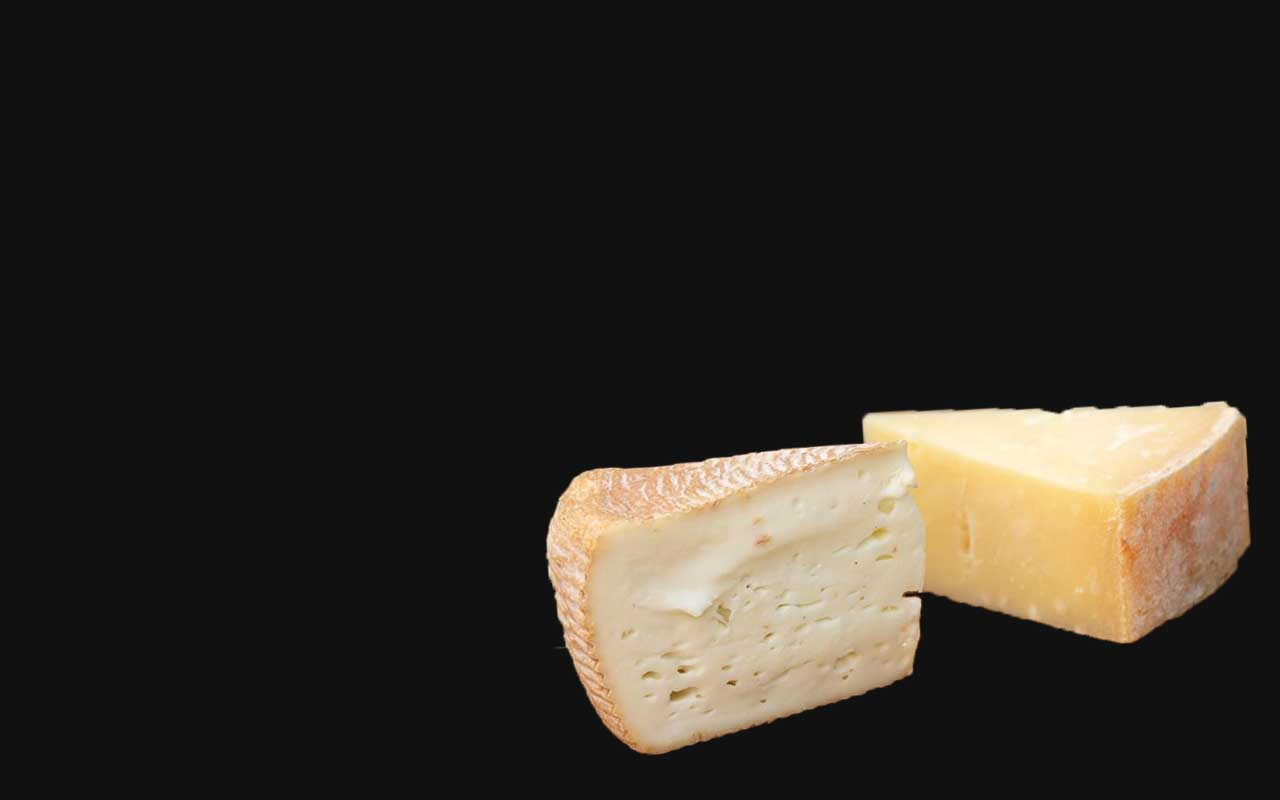
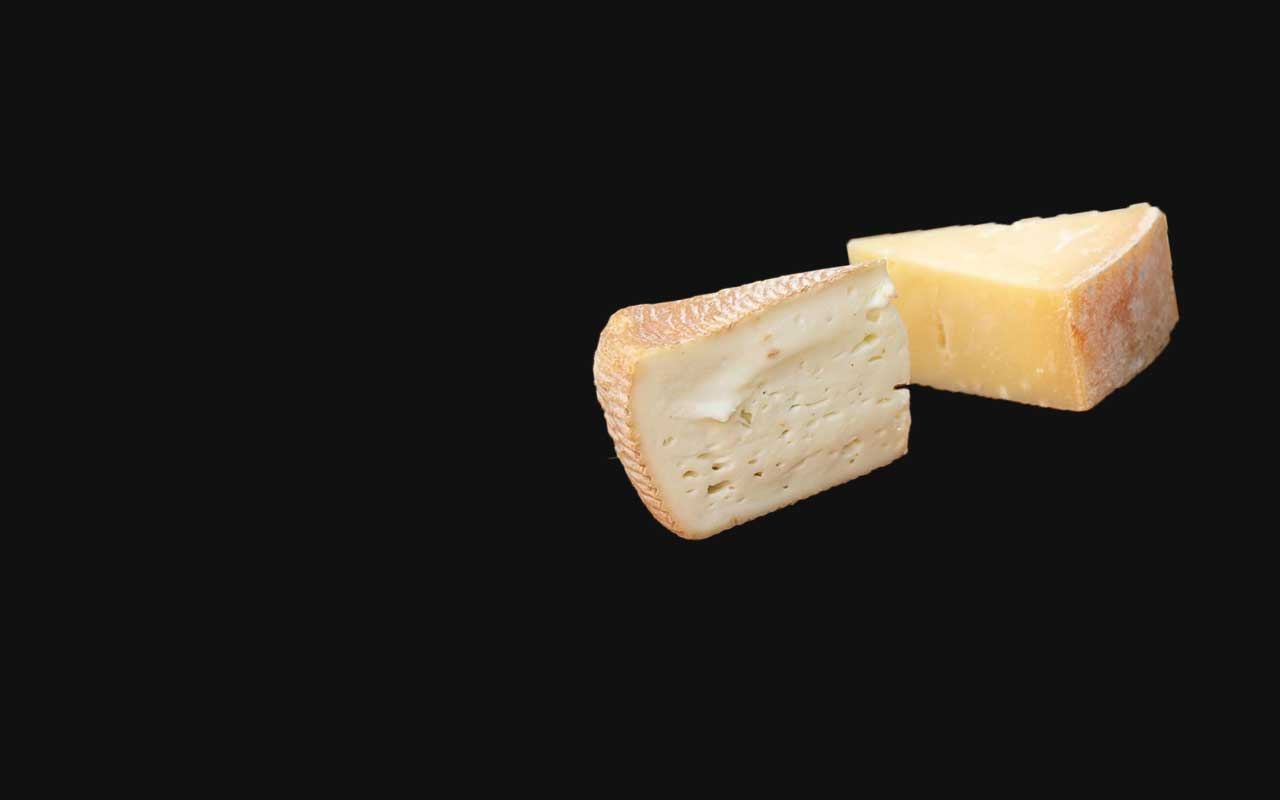
type mobile version done!

Changed region(s): [[0.4062, 0.25, 1.0, 0.9688]]

diff --git a/scss/components/_main.scss b/scss/components/_main.scss
@@ -194,7 +194,7 @@ Process Page
     position: relative;
     max-width: 100%;
     height: 700px;
-    background-image: url("/images/process/process-stage-1.jpg");
+    background-image: url("/images/process/process-stage-1.png");
     background-repeat: no-repeat;
     background-position: center;
     background-size: cover;
@@ -207,7 +207,7 @@ Process Page
     position: relative;
     max-width: 100%;
     height: 700px;
-    background-image: url("/images/process/process-stage-2.jpg");
+    background-image: url("/images/process/process-stage-2.png");
     background-repeat: no-repeat;
     background-position: center;
     background-size: cover;
@@ -219,7 +219,7 @@ Process Page
     position: relative;
     max-width: 100%;
     height: 700px;
-    background-image: url("/images/process/process-stage-3.jpg");
+    background-image: url("/images/process/process-stage-3.png");
     background-repeat: no-repeat;
     background-position: center;
     background-size: cover;
@@ -231,7 +231,7 @@ Process Page
     position: relative;
     max-width: 100%;
     height: 700px;
-    background-image: url("/images/process/process-stage-4.jpg");
+    background-image: url("/images/process/process-stage-4.png");
     background-repeat: no-repeat;
     background-position: center;
     background-size: cover;
@@ -243,7 +243,7 @@ Process Page
     position: relative;
     max-width: 100%;
     height: 700px;
-    background-image: url("/images/process/process-stage-5.jpg");
+    background-image: url("/images/process/process-stage-5.png");
     background-repeat: no-repeat;
     background-position: center;
     background-size: cover;
@@ -283,7 +283,7 @@ Process Page
     position: relative;
     max-width: 100%;
     height: 700px;
-    background-image: url("/images/process/type-6-1.jpg");
+    background-image: url("/images/process/type-6-2.jpg");
     background-repeat: no-repeat;
     background-position: center;
     background-size: cover;
@@ -295,7 +295,7 @@ Process Page
     position: relative;
     max-width: 100%;
     height: 700px;
-    background-image: url("/images/process/type-1-2.jpg");
+    background-image: url("/images/process/type-1-1.jpg");
     background-repeat: no-repeat;
     background-position: center;
     background-size: cover;
@@ -413,6 +413,97 @@ Media Query for Process Page
         top: 40%;
         right: 10%;
         left: 40%;
+        font-size: 1.1em;
+        font-weight: bold;
+        line-height: normal;
+    }
+
+
+    //  Type Container Text Decoration -------------------------------------------
+    //---------------Container 1
+    .type-mild h2 {
+        position: absolute;
+        top: 4%;
+        left: 24%;
+        font-size: 2.1em;
+        color: $color1;
+    }
+
+    .type-mild h3 {
+        position: absolute;
+        top: 20%;
+        left: 36%;
+        font-size: 1.7em;
+        color: $color2;
+    }
+
+    .type-mild p {
+        position: absolute;
+        top: 28%;
+        right: 10%;
+        left: 36%;
+        color: white;
+        font-size: 1.1em;
+        font-weight: bold;
+        line-height: normal;
+    }
+
+    
+    //---------------Container 2
+    .type-medium h3 {
+        position: absolute;
+        top: 10%;
+        left: 10%;
+        font-size: 2em;
+        color: $color2;
+        
+    }
+    .type-medium p {
+        position: absolute;
+        top: 20%;
+        left: 10%;
+        right: 45%;
+        color: white;
+        font-size: 1.1em;
+        font-weight: bold;
+        line-height: normal;
+    }
+
+    //---------------Container 3
+    .type-bold h3 {
+        position: absolute;
+        top: 16%;
+        left: 54%;
+        font-size: 1.7em;
+        color: $color2;
+    }
+
+    .type-bold p {
+        position: absolute;
+        top: 26%;
+        right: 6%;
+        left: 50%;
+        color: white;
+        font-size: 1.1em;
+        font-weight: bold;
+        line-height: normal;
+    }
+
+    //---------------Container 4
+    .type-strong h3 {
+        position: absolute;
+        top: 15%;
+        left: 7%;
+        font-size: 2em;
+        color: $color2;
+    }
+
+    .type-strong p {
+        position: absolute;
+        top: 24%;
+        left: 7%;
+        right: 50%;
+        color: white;
         font-size: 1.1em;
         font-weight: bold;
         line-height: normal;

diff --git a/styles/styles.css b/styles/styles.css
@@ -974,7 +974,7 @@ Process Page
   position: relative;
   max-width: 100%;
   height: 700px;
-  background-image: url("/images/process/process-stage-1.jpg");
+  background-image: url("/images/process/process-stage-1.png");
   background-repeat: no-repeat;
   background-position: center;
   background-size: cover;
@@ -984,7 +984,7 @@ Process Page
   position: relative;
   max-width: 100%;
   height: 700px;
-  background-image: url("/images/process/process-stage-2.jpg");
+  background-image: url("/images/process/process-stage-2.png");
   background-repeat: no-repeat;
   background-position: center;
   background-size: cover;
@@ -994,7 +994,7 @@ Process Page
   position: relative;
   max-width: 100%;
   height: 700px;
-  background-image: url("/images/process/process-stage-3.jpg");
+  background-image: url("/images/process/process-stage-3.png");
   background-repeat: no-repeat;
   background-position: center;
   background-size: cover;
@@ -1004,7 +1004,7 @@ Process Page
   position: relative;
   max-width: 100%;
   height: 700px;
-  background-image: url("/images/process/process-stage-4.jpg");
+  background-image: url("/images/process/process-stage-4.png");
   background-repeat: no-repeat;
   background-position: center;
   background-size: cover;
@@ -1014,7 +1014,7 @@ Process Page
   position: relative;
   max-width: 100%;
   height: 700px;
-  background-image: url("/images/process/process-stage-5.jpg");
+  background-image: url("/images/process/process-stage-5.png");
   background-repeat: no-repeat;
   background-position: center;
   background-size: cover;
@@ -1044,7 +1044,7 @@ Process Page
   position: relative;
   max-width: 100%;
   height: 700px;
-  background-image: url("/images/process/type-6-1.jpg");
+  background-image: url("/images/process/type-6-2.jpg");
   background-repeat: no-repeat;
   background-position: center;
   background-size: cover;
@@ -1054,7 +1054,7 @@ Process Page
   position: relative;
   max-width: 100%;
   height: 700px;
-  background-image: url("/images/process/type-1-2.jpg");
+  background-image: url("/images/process/type-1-1.jpg");
   background-repeat: no-repeat;
   background-position: center;
   background-size: cover;
@@ -1159,6 +1159,81 @@ Media Query for Process Page
     top: 40%;
     right: 10%;
     left: 40%;
+    font-size: 1.1em;
+    font-weight: bold;
+    line-height: normal;
+  }
+  .type-mild h2 {
+    position: absolute;
+    top: 4%;
+    left: 24%;
+    font-size: 2.1em;
+    color: #B3CFF2;
+  }
+  .type-mild h3 {
+    position: absolute;
+    top: 20%;
+    left: 36%;
+    font-size: 1.7em;
+    color: #BF964B;
+  }
+  .type-mild p {
+    position: absolute;
+    top: 28%;
+    right: 10%;
+    left: 36%;
+    color: white;
+    font-size: 1.1em;
+    font-weight: bold;
+    line-height: normal;
+  }
+  .type-medium h3 {
+    position: absolute;
+    top: 10%;
+    left: 10%;
+    font-size: 2em;
+    color: #BF964B;
+  }
+  .type-medium p {
+    position: absolute;
+    top: 20%;
+    left: 10%;
+    right: 45%;
+    color: white;
+    font-size: 1.1em;
+    font-weight: bold;
+    line-height: normal;
+  }
+  .type-bold h3 {
+    position: absolute;
+    top: 16%;
+    left: 54%;
+    font-size: 1.7em;
+    color: #BF964B;
+  }
+  .type-bold p {
+    position: absolute;
+    top: 26%;
+    right: 6%;
+    left: 50%;
+    color: white;
+    font-size: 1.1em;
+    font-weight: bold;
+    line-height: normal;
+  }
+  .type-strong h3 {
+    position: absolute;
+    top: 15%;
+    left: 7%;
+    font-size: 2em;
+    color: #BF964B;
+  }
+  .type-strong p {
+    position: absolute;
+    top: 24%;
+    left: 7%;
+    right: 50%;
+    color: white;
     font-size: 1.1em;
     font-weight: bold;
     line-height: normal;

diff --git a/process.html b/process.html
@@ -128,12 +128,8 @@
                     <article class="type-mild">
                         <h2>Types of Cheeses</h2>
                             <h3>Mild Cheeses</h3>
-                                <p>
+                                <p class="type-p1">
                                     Sourced from young goats, double or triple creams, or bloomy rind cheese.
-                                </p>
-                            <h4>Pairings...</h4>
-                                <p>
-                                    Pairs well with light white wines and champagnes
                                 </p>
                     </article>
 
@@ -143,10 +139,6 @@
                             <p>
                                 Cheeses in this category are soft to semi-firm, such as a mild cow, an aged goat, or sheep milk cheese. 
                             </p>
-                        <h4>Pairings...</h4>
-                            <p>
-                                Pairs well with a light red wine, rose, lagers and or pilsner beers
-                            </p>
                     </article>
 
                     <!-- Cheese Types Container 3 -->
@@ -155,10 +147,6 @@
                             <p>
                                 Cheeses in this category resemble harder mountain cheeses, long aged cheddars and mild wash rind cheeses (stinky).
                             </p>
-                        <h4>Pairings...</h4>
-                            <p>
-                                Pairs well with red wine, ales and lambic beers 
-                             </p>
                     </article>
 
                     <!-- Cheese Types Container 4 -->
@@ -166,10 +154,6 @@
                         <h3>Strong Cheeses</h3>
                             <p>
                                 Cheeses in this category have a bigger presence and resemble cheeses that have a more assertive washed rind cheese or a classic blue cheese. 
-                            </p>
-                        <h4>Pairings...</h4>
-                            <p>
-                                Pairs well with dessert wines, ports and stout beers. 
                             </p>
                     </article>
                 </section>
